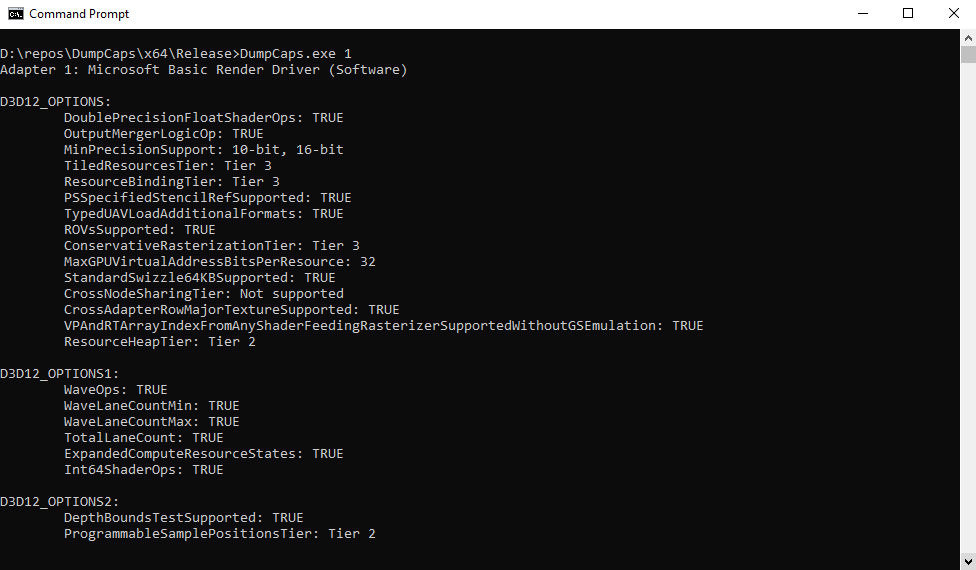
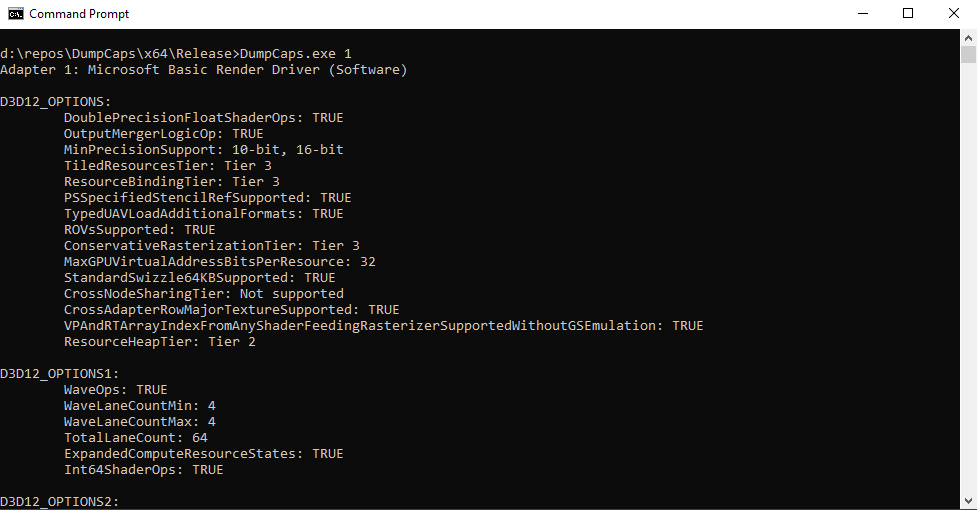
better type safety

diff --git a/DumpCaps.cpp b/DumpCaps.cpp
@@ -13,20 +13,20 @@ void PrintPage_OPTIONS(ID3D12Device* device)
         return;
 
     std::cout << "D3D12_OPTIONS: \n";
-    std::cout << "\t" << "DoublePrecisionFloatShaderOps: " << ToString(cap.DoublePrecisionFloatShaderOps) << "\n";
-    std::cout << "\t" << "OutputMergerLogicOp: " << ToString(cap.OutputMergerLogicOp) << "\n";
+    std::cout << "\t" << "DoublePrecisionFloatShaderOps: " << ToStringBool(cap.DoublePrecisionFloatShaderOps) << "\n";
+    std::cout << "\t" << "OutputMergerLogicOp: " << ToStringBool(cap.OutputMergerLogicOp) << "\n";
     std::cout << "\t" << "MinPrecisionSupport: " << ToString(cap.MinPrecisionSupport) << "\n";
     std::cout << "\t" << "TiledResourcesTier: " << ToString(cap.TiledResourcesTier) << "\n";
     std::cout << "\t" << "ResourceBindingTier: " << ToString(cap.ResourceBindingTier) << "\n";
-    std::cout << "\t" << "PSSpecifiedStencilRefSupported: " << ToString(cap.PSSpecifiedStencilRefSupported) << "\n";
-    std::cout << "\t" << "TypedUAVLoadAdditionalFormats: " << ToString(cap.TypedUAVLoadAdditionalFormats) << "\n";
-    std::cout << "\t" << "ROVsSupported: " << ToString(cap.ROVsSupported) << "\n";
+    std::cout << "\t" << "PSSpecifiedStencilRefSupported: " << ToStringBool(cap.PSSpecifiedStencilRefSupported) << "\n";
+    std::cout << "\t" << "TypedUAVLoadAdditionalFormats: " << ToStringBool(cap.TypedUAVLoadAdditionalFormats) << "\n";
+    std::cout << "\t" << "ROVsSupported: " << ToStringBool(cap.ROVsSupported) << "\n";
     std::cout << "\t" << "ConservativeRasterizationTier: " << ToString(cap.ConservativeRasterizationTier) << "\n";
     std::cout << "\t" << "MaxGPUVirtualAddressBitsPerResource: " << cap.MaxGPUVirtualAddressBitsPerResource << "\n";
-    std::cout << "\t" << "StandardSwizzle64KBSupported: " << ToString(cap.StandardSwizzle64KBSupported) << "\n";
+    std::cout << "\t" << "StandardSwizzle64KBSupported: " << ToStringBool(cap.StandardSwizzle64KBSupported) << "\n";
     std::cout << "\t" << "CrossNodeSharingTier: " << ToString(cap.CrossNodeSharingTier) << "\n";
-    std::cout << "\t" << "CrossAdapterRowMajorTextureSupported: " << ToString(cap.CrossAdapterRowMajorTextureSupported) << "\n";
-    std::cout << "\t" << "VPAndRTArrayIndexFromAnyShaderFeedingRasterizerSupportedWithoutGSEmulation: " << ToString(cap.VPAndRTArrayIndexFromAnyShaderFeedingRasterizerSupportedWithoutGSEmulation) << "\n";
+    std::cout << "\t" << "CrossAdapterRowMajorTextureSupported: " << ToStringBool(cap.CrossAdapterRowMajorTextureSupported) << "\n";
+    std::cout << "\t" << "VPAndRTArrayIndexFromAnyShaderFeedingRasterizerSupportedWithoutGSEmulation: " << ToStringBool(cap.VPAndRTArrayIndexFromAnyShaderFeedingRasterizerSupportedWithoutGSEmulation) << "\n";
     std::cout << "\t" << "ResourceHeapTier: " << ToString(cap.ResourceHeapTier) << "\n";
     std::cout << "\n";
 }
@@ -38,12 +38,12 @@ void PrintPage_OPTIONS1(ID3D12Device* device)
         return;
 
     std::cout << "D3D12_OPTIONS1: \n";
-    std::cout << "\t" << "WaveOps: " << ToString(cap.WaveOps) << "\n";
-    std::cout << "\t" << "WaveLaneCountMin: " << ToString(cap.WaveLaneCountMin) << "\n";
-    std::cout << "\t" << "WaveLaneCountMax: " << ToString(cap.WaveLaneCountMax) << "\n";
-    std::cout << "\t" << "TotalLaneCount: " << ToString(cap.TotalLaneCount) << "\n";
-    std::cout << "\t" << "ExpandedComputeResourceStates: " << ToString(cap.ExpandedComputeResourceStates) << "\n";
-    std::cout << "\t" << "Int64ShaderOps: " << ToString(cap.Int64ShaderOps) << "\n";
+    std::cout << "\t" << "WaveOps: " << ToStringBool(cap.WaveOps) << "\n";
+    std::cout << "\t" << "WaveLaneCountMin: " << ToStringUint(cap.WaveLaneCountMin) << "\n";
+    std::cout << "\t" << "WaveLaneCountMax: " << ToStringUint(cap.WaveLaneCountMax) << "\n";
+    std::cout << "\t" << "TotalLaneCount: " << ToStringUint(cap.TotalLaneCount) << "\n";
+    std::cout << "\t" << "ExpandedComputeResourceStates: " << ToStringBool(cap.ExpandedComputeResourceStates) << "\n";
+    std::cout << "\t" << "Int64ShaderOps: " << ToStringBool(cap.Int64ShaderOps) << "\n";
     std::cout << "\n";
 }
 
@@ -54,7 +54,7 @@ void PrintPage_OPTIONS2(ID3D12Device* device)
         return;
 
     std::cout << "D3D12_OPTIONS2: \n";
-    std::cout << "\t" << "DepthBoundsTestSupported: " << ToString(cap.DepthBoundsTestSupported) << "\n";
+    std::cout << "\t" << "DepthBoundsTestSupported: " << ToStringBool(cap.DepthBoundsTestSupported) << "\n";
     std::cout << "\t" << "ProgrammableSamplePositionsTier: " << ToString(cap.ProgrammableSamplePositionsTier) << "\n";
     std::cout << "\n";
 }
@@ -66,11 +66,11 @@ void PrintPage_OPTIONS3(ID3D12Device* device)
         return;
 
     std::cout << "D3D12_OPTIONS3: \n";
-    std::cout << "\t" << "CopyQueueTimestampQueriesSupported: " << ToString(cap.CopyQueueTimestampQueriesSupported) << "\n";
-    std::cout << "\t" << "CastingFullyTypedFormatSupported: " << ToString(cap.CastingFullyTypedFormatSupported) << "\n";
+    std::cout << "\t" << "CopyQueueTimestampQueriesSupported: " << ToStringBool(cap.CopyQueueTimestampQueriesSupported) << "\n";
+    std::cout << "\t" << "CastingFullyTypedFormatSupported: " << ToStringBool(cap.CastingFullyTypedFormatSupported) << "\n";
     std::cout << "\t" << "WriteBufferImmediateSupportFlags: " << ToString(cap.WriteBufferImmediateSupportFlags) << "\n";
     std::cout << "\t" << "ViewInstancingTier: " << ToString(cap.ViewInstancingTier) << "\n";
-    std::cout << "\t" << "BarycentricsSupported: " << ToString(cap.BarycentricsSupported) << "\n";
+    std::cout << "\t" << "BarycentricsSupported: " << ToStringBool(cap.BarycentricsSupported) << "\n";
     std::cout << "\n";
 }
 
@@ -81,9 +81,9 @@ void PrintPage_OPTIONS4(ID3D12Device* device)
         return;
 
     std::cout << "D3D12_OPTIONS4: \n";
-    std::cout << "\t" << "MSAA64KBAlignedTextureSupported: " << ToString(cap.MSAA64KBAlignedTextureSupported) << "\n";
+    std::cout << "\t" << "MSAA64KBAlignedTextureSupported: " << ToStringBool(cap.MSAA64KBAlignedTextureSupported) << "\n";
     std::cout << "\t" << "SharedResourceCompatibilityTier: " << ToString(cap.SharedResourceCompatibilityTier) << "\n";
-    std::cout << "\t" << "Native16BitShaderOpsSupported: " << ToString(cap.Native16BitShaderOpsSupported) << "\n";
+    std::cout << "\t" << "Native16BitShaderOpsSupported: " << ToStringBool(cap.Native16BitShaderOpsSupported) << "\n";
     std::cout << "\n";
 }
 
@@ -94,7 +94,7 @@ void PrintPage_OPTIONS5(ID3D12Device* device)
         return;
 
     std::cout << "D3D12_OPTIONS5: \n";
-    std::cout << "\t" << "SRVOnlyTiledResourceTier3: " << ToString(cap.SRVOnlyTiledResourceTier3) << "\n";
+    std::cout << "\t" << "SRVOnlyTiledResourceTier3: " << ToStringBool(cap.SRVOnlyTiledResourceTier3) << "\n";
     std::cout << "\t" << "RenderPassesTier: " << ToString(cap.RenderPassesTier) << "\n";
     std::cout << "\t" << "RaytracingTier: " << ToString(cap.RaytracingTier) << "\n";
     std::cout << "\n";
@@ -107,11 +107,11 @@ void PrintPage_OPTIONS6(ID3D12Device* device)
         return;
 
     std::cout << "D3D12_OPTIONS6: \n";
-    std::cout << "\t" << "AdditionalShadingRatesSupported: " << ToString(cap.AdditionalShadingRatesSupported) << "\n";
-    std::cout << "\t" << "PerPrimitiveShadingRateSupportedWithViewportIndexing: " << ToString(cap.PerPrimitiveShadingRateSupportedWithViewportIndexing) << "\n";
+    std::cout << "\t" << "AdditionalShadingRatesSupported: " << ToStringBool(cap.AdditionalShadingRatesSupported) << "\n";
+    std::cout << "\t" << "PerPrimitiveShadingRateSupportedWithViewportIndexing: " << ToStringBool(cap.PerPrimitiveShadingRateSupportedWithViewportIndexing) << "\n";
     std::cout << "\t" << "VariableShadingRateTier: " << ToString(cap.VariableShadingRateTier) << "\n";
-    std::cout << "\t" << "ShadingRateImageTileSize: " << ToString(cap.ShadingRateImageTileSize) << "\n";
-    std::cout << "\t" << "BackgroundProcessingSupported: " << ToString(cap.BackgroundProcessingSupported) << "\n";
+    std::cout << "\t" << "ShadingRateImageTileSize: " << ToStringUint(cap.ShadingRateImageTileSize) << "\n";
+    std::cout << "\t" << "BackgroundProcessingSupported: " << ToStringBool(cap.BackgroundProcessingSupported) << "\n";
     std::cout << "\n";
 }
 
@@ -143,9 +143,9 @@ void PrintPage_ARCHITECTURE(ID3D12Device* device)
                 outputHeader = false;
             }
             std::cout << "\t" << "Node " << cap.NodeIndex << ": \n";
-            std::cout << "\t\t" << "TileBasedRenderer: " << ToString(cap.TileBasedRenderer) << "\n";
-            std::cout << "\t\t" << "UMA: " << ToString(cap.UMA) << "\n";
-            std::cout << "\t\t" << "CacheCoherentUMA: " << ToString(cap.CacheCoherentUMA) << "\n";
+            std::cout << "\t\t" << "TileBasedRenderer: " << ToStringBool(cap.TileBasedRenderer) << "\n";
+            std::cout << "\t\t" << "UMA: " << ToStringBool(cap.UMA) << "\n";
+            std::cout << "\t\t" << "CacheCoherentUMA: " << ToStringBool(cap.CacheCoherentUMA) << "\n";
             std::cout << "\n";
         }
         else

diff --git a/ToString.h b/ToString.h
@@ -1,8 +1,15 @@
 #pragma once
 
-std::string ToString(BOOL b)
+std::string ToStringBool(BOOL b)
 {
 	return b ? "TRUE" : "FALSE";
+}
+
+std::string ToStringUint(UINT u)
+{
+	std::ostringstream s;
+	s << u;
+	return s.str();
 }
 
 std::string ToString(D3D12_SHADER_MIN_PRECISION_SUPPORT minPrec)
@@ -10,7 +17,6 @@ std::string ToString(D3D12_SHADER_MIN_PRECISION_SUPPORT minPrec)
 	if (minPrec == D3D12_SHADER_MIN_PRECISION_SUPPORT_NONE) return "None";
 
 	std::string result;
-	bool first = true;
 	if (minPrec & D3D12_SHADER_MIN_PRECISION_SUPPORT_10_BIT)
 	{
 		result.append("10-bit");
